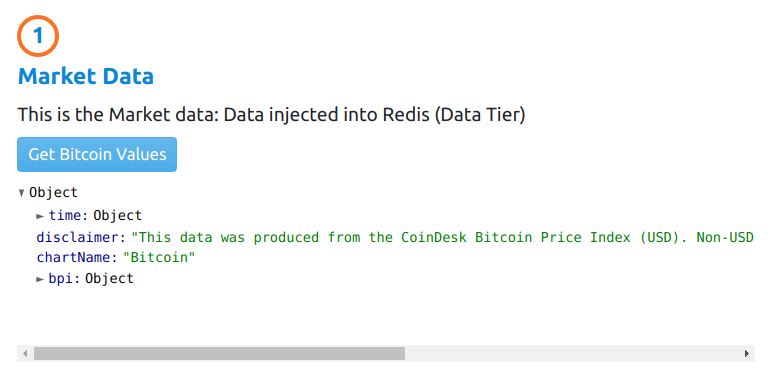
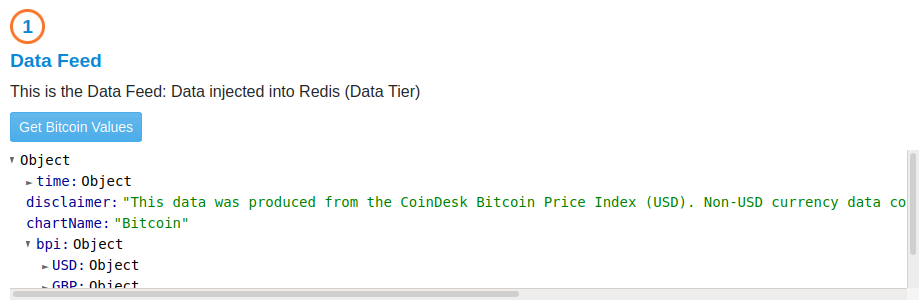
Updated chart and code according to new schema provided

diff --git a/redis-integration/redis-app/js/pages/RedisDiffusion.js b/redis-integration/redis-app/js/pages/RedisDiffusion.js
@@ -1,6 +1,7 @@
-import Chart from "../components/Chart.js";
-import CoindeskPoller from "../services/CoindeskPoller.js";
-import RedisService from "../services/RedisService.js";
+import DataFeeder from "../services/DataFeeder.js";
+import BackendService from "../services/BackendService.js";
+import DiffusionClient from "../components/DiffusionClient.js";
+import RedisClient from "../components/RedisClient.js";
 import DiffusionService from "../services/DiffusionService.js";
 
 export default class RedisDiffusion {
@@ -11,21 +12,21 @@ export default class RedisDiffusion {
         this.topic = 'redis/bitcoin';
 
         // Instantiate Redis Service (Data Tier)
-        this.redisService = new RedisService();
-        this.redisService.setTargetChart(new Chart('chartDiv', 'redisDataReceived'));
+        this.backendService = new BackendService();
+        this.backendService.setTargetChart(new RedisClient());
         
-        // Instantiate Coindesk Poller (Market Data)
-        this.coindeskPoller = new CoindeskPoller(this.apiResponseBodyEl);
-        this.coindeskPoller.setRedisService(this.redisService);
+        // Instantiate Data Feeder (Market Data)
+        this.dataFeeder = new DataFeeder(this.apiResponseBodyEl);
+        this.dataFeeder.setBackendService(this.backendService);
 
         // Instantiate Diffusion Service (Aplication Tier)
         this.diffusionService = new DiffusionService();
-        this.diffusionService.setTargetChart(new Chart('diffusionChartDiv', 'diffusionDataReceived'));
+        this.diffusionService.setTargetChart(new DiffusionClient());
 
         // We set diffusion service into redis service for publishing data.
-        this.redisService.setDiffusionService(this.diffusionService);
+        this.backendService.setDiffusionService(this.diffusionService);
                 
-        // Client tier is represented by the Diffusion Chart
+        // Client tier is represented by the Diffusion and Redis Clients
 
         // Add Buttons event listeners
         this.setEvents(); 
@@ -50,8 +51,8 @@ export default class RedisDiffusion {
         // Start polling from API into Redis
         this.startPollBtn.addEventListener('click', evt => {
             evt.preventDefault();
-            this.coindeskPoller.onStartPolling(evt)
-            this.redisService.startListeningRedisWebSocket();
+            this.dataFeeder.onStartPolling(evt)
+            this.backendService.startListeningRedisWebSocket();
         });
 
         // Connect to Diffusion Service

diff --git a/redis-integration/redis-app/index.html b/redis-integration/redis-app/index.html
@@ -19,7 +19,7 @@
               <div class="col-2">&nbsp;</div>
               <div class="col-8">
                 <h5 class="tier-title">General Schema</h5>
-                <img src="images/schema-v2.png" style="background-size: cover;" class="img-fluid rounded mx-auto d-block">
+                <img src="images/redis-schema.png" style="background-size: cover;" class="img-fluid rounded mx-auto d-block">
               </div>
               
             </div>
@@ -28,8 +28,8 @@
                 <div class="col-md-6 border-end p-2">
                   <div style="height: 300px; padding: 10px;">
                     <div class="rounded-number tier-title">1</div>
-                    <h5 class="tier-title">Market Data</h5>
-                    <label for="name" class="mb-2">This is the Market data: Data injected into Redis (Data Tier)</label><br>
+                    <h5 class="tier-title">Data Feed</h5>
+                    <label for="name" class="mb-2">This is the Data Feed: Data injected into Redis (Data Tier)</label><br>
                     <a href="#" class="btn btn-diffusion btn-sm text-white" id="startPolling">Get Bitcoin Values</a>
                     <pre class="json text mt-2" style="background-color: white; height: 150px;" id="responseValue"></pre>
                   </div>

diff --git a/redis-integration/redis-app/js/services/BackendService.js b/redis-integration/redis-app/js/services/BackendService.js
@@ -1,4 +1,4 @@
-export default class RedisService {
+export default class BackendService {
     constructor() {
         // Lets create a Socket to interact with Redis
         this.redisWebSocket = new WebSocket("ws://127.0.0.1:3000/");
@@ -19,14 +19,21 @@ export default class RedisService {
             this.message = JSON.parse(data); // Parse the data from Redis
             console.log('Data received from Redis: ', this.message);
                         
-            this.chart.updateDataReceived(data.length);
-            
-            this.chart.updateChart(this.message); // Feed the Redis graph with it
+            this.updateClient(data); //Feeds redis graph with data
             
             // Publish received data to Diffusion
             this.publishToDiffusion(this.message);
         }
-    }        
+    }
+    
+    /**
+     * Updates Client with received data
+     * @param {*} data 
+     */
+    updateClient = data => {
+        this.chart.updateDataReceived(data.length);
+        this.chart.updateChart(this.message); // Feed the Redis graph with it
+    }
 
     /**
      * Sends data to the Redis Server

diff --git a/redis-integration/redis-app/js/services/DataFeeder.js b/redis-integration/redis-app/js/services/DataFeeder.js
@@ -1,17 +1,17 @@
 import { poll } from "./poller.js";
 
-export default class CoindeskPoller {
+export default class DataFeeder {
     constructor(responseBodyEl) {
         this.apiUrl = 'https://api.coindesk.com/v1/bpi/currentprice.json';
         this.polling = false;
-        this.redisService = null;
+        this.backendService = null;
         this.responseBodyEl = responseBodyEl;
     }
 
     // Sets the API URL
     setApiUrl = apiUrl => this.apiUrl = apiUrl;
 
-    setRedisService = redisService => this.redisService = redisService;
+    setBackendService = backendService => this.backendService = backendService;
 
     /**
      * Start polling, when the start polling button was clicked
@@ -63,6 +63,6 @@ export default class CoindeskPoller {
         this.responseBodyEl.appendChild(formatter.render());
         
         // Publish polled data to Redis
-        this.redisService.publish(data);
+        this.backendService.publish(data);
     }
 }

diff --git a/redis-integration/redis-app/js/components/DiffusionClient.js b/redis-integration/redis-app/js/components/DiffusionClient.js
@@ -1,0 +1,7 @@
+import Chart from "./Chart.js"
+
+export default class DiffusionClient extends Chart {
+    constructor() {
+        super('diffusionChartDiv', 'diffusionDataReceived');
+    }
+}

diff --git a/redis-integration/redis-app/js/components/RedisClient.js b/redis-integration/redis-app/js/components/RedisClient.js
@@ -1,0 +1,7 @@
+import Chart from "./Chart.js"
+
+export default class RedisClient extends Chart {
+    constructor() {
+        super('chartDiv', 'redisDataReceived');
+    }
+}

diff --git a/redis-integration/README.md b/redis-integration/README.md
@@ -6,7 +6,7 @@ This JavaScript code example will help you publish external data on real-time fr
 
 # What this tutorial does
 ## General Schema
-![](./redis-app/images/schema-v2.png)
+![](./redis-app/images/redis-schema.png)
 ## Market data
 ![](./images/market-data.png)  
 For the purposes of this tutorial, we are going to be using the [Coindesk API](https://api.coindesk.com/v1/bpi/currentprice.json) to retrieve Bitcoin current value, in USD, Euros and GBP. 
@@ -62,7 +62,7 @@ server.on('connection', function connection(ws) {
 
 The WebClient consists of three main Services:
 
-[**CoindeskPoller**](./redis-app/js/services/CoindeskPoller.js): This Service interacts with [Coindesk](https://api.coindesk.com/v1/bpi/currentprice.json), by polling data from its API and publishing it to Redis.
+[**DataFeeder**](./redis-app/js/services/DataFeeder.js): This Service interacts with [Coindesk](https://api.coindesk.com/v1/bpi/currentprice.json), by polling data from its API and publishing it to Redis.
 
 ```javascript
 /**
@@ -78,11 +78,11 @@ callEndpoint = async () => {
     this.apiResponseBodyEl.appendChild(formatter.render());
     
     // Publish polled data to Redis
-    this.redisService.publish(data);
+    this.backendService.publish(data);
 }
 ```
 
-[**RedisService**](./redis-app/js/services/RedisService.js): This Service acts as a bridge, receiving data from *CoindeskPoller* and publishing it to Diffusion. It also feeds data received from Coindesk into the Redis Chart. *RedisService* uses **WebSockets** to interact with the [**Redis NodeJS Server**](./redis-app/js/redis-server/redis-server.js), as explained before.
+[**BackendService**](./redis-app/js/services/BackendService.js): This Service acts as a bridge, receiving data from *DataFeeder* and publishing it to Diffusion. It also feeds data received from Coindesk into the [RedisClient](./redis-app/js/components/RedisClient.js) Chart. *BackendService* uses **WebSockets** to interact with the [**Redis NodeJS Server**](./redis-app/js/redis-server/redis-server.js), as explained before.
 
 ```javascript
 /**
@@ -92,15 +92,25 @@ startListeningRedisWebSocket = () => {
     this.redisWebSocket.onmessage = ({ data }) => {
         this.message = JSON.parse(data); // Parse the data from Redis
         console.log('Data received from Redis: ', this.message);
-        this.updateChart(this.message); // Feed the Redis graph with it
+        
+        this.updateClient(data); // Feed the Redis graph with it
         
         // Publish received data to Diffusion
         this.publishToDiffusion(this.message);
     }
 }
+
+/**
+ * Updates Client with received data
+ * @param {*} data 
+ */
+updateClient = data => {
+    this.chart.updateDataReceived(data.length);
+    this.chart.updateChart(this.message); // Feed the Redis graph with it
+}
 ```
 
-[**DiffusionService**](./redis-app/js/services/DiffusionService.js): This Service, in turn, receives data published by *RedisService* from the Diffusion Topic we've set up, and feeds Diffusion's Chart:
+[**DiffusionService**](./redis-app/js/services/DiffusionService.js): This Service, in turn, receives data published by the *BackendService* to the Diffusion Topic we've set up, and feeds [DiffusionClient](./redis-app/js/components/DiffusionClient.js) Chart:
 
 ```javascript
 /**
@@ -110,6 +120,8 @@ startListeningRedisWebSocket = () => {
  */
 onDiffusionMessage = message => {
     console.log('on Diffusion message', message);
+    
+    this.chart.updateDataReceived(JSON.stringify(message).length);
     // This message came from Diffusion! Feed Diffusion's Chart
     this.updateChart(message, this.diffusionChart);
 }
@@ -117,7 +129,7 @@ onDiffusionMessage = message => {
 
 ## Connecting to diffusion
 
-In the previous section, we described how the different Web Application Services interact. Now we'll describe, how the Diffusion Service interacts with the Diffusion Client to Consumer and Publish through it. Connecting is very easy, read the comments in code to understand what it does.
+In the previous section, we described how the different Web Application Services interact. Now we'll describe, how the Diffusion Service interacts with the Diffusion Client to Consume and Publish through it. Connecting is very easy, read the comments in code to understand what it does.
 
 ### Functions in DiffusionService
 
@@ -186,7 +198,9 @@ onDiffusionMessage = message => {
 }
 ```
 
-### Diffusion Client functions
+### [Diffusion Client](./redis-app/js/clients/Diffusion.js) functions
+
+This is the client that directly interacts with Diffusion.  
 
 ```javascript
 /**
